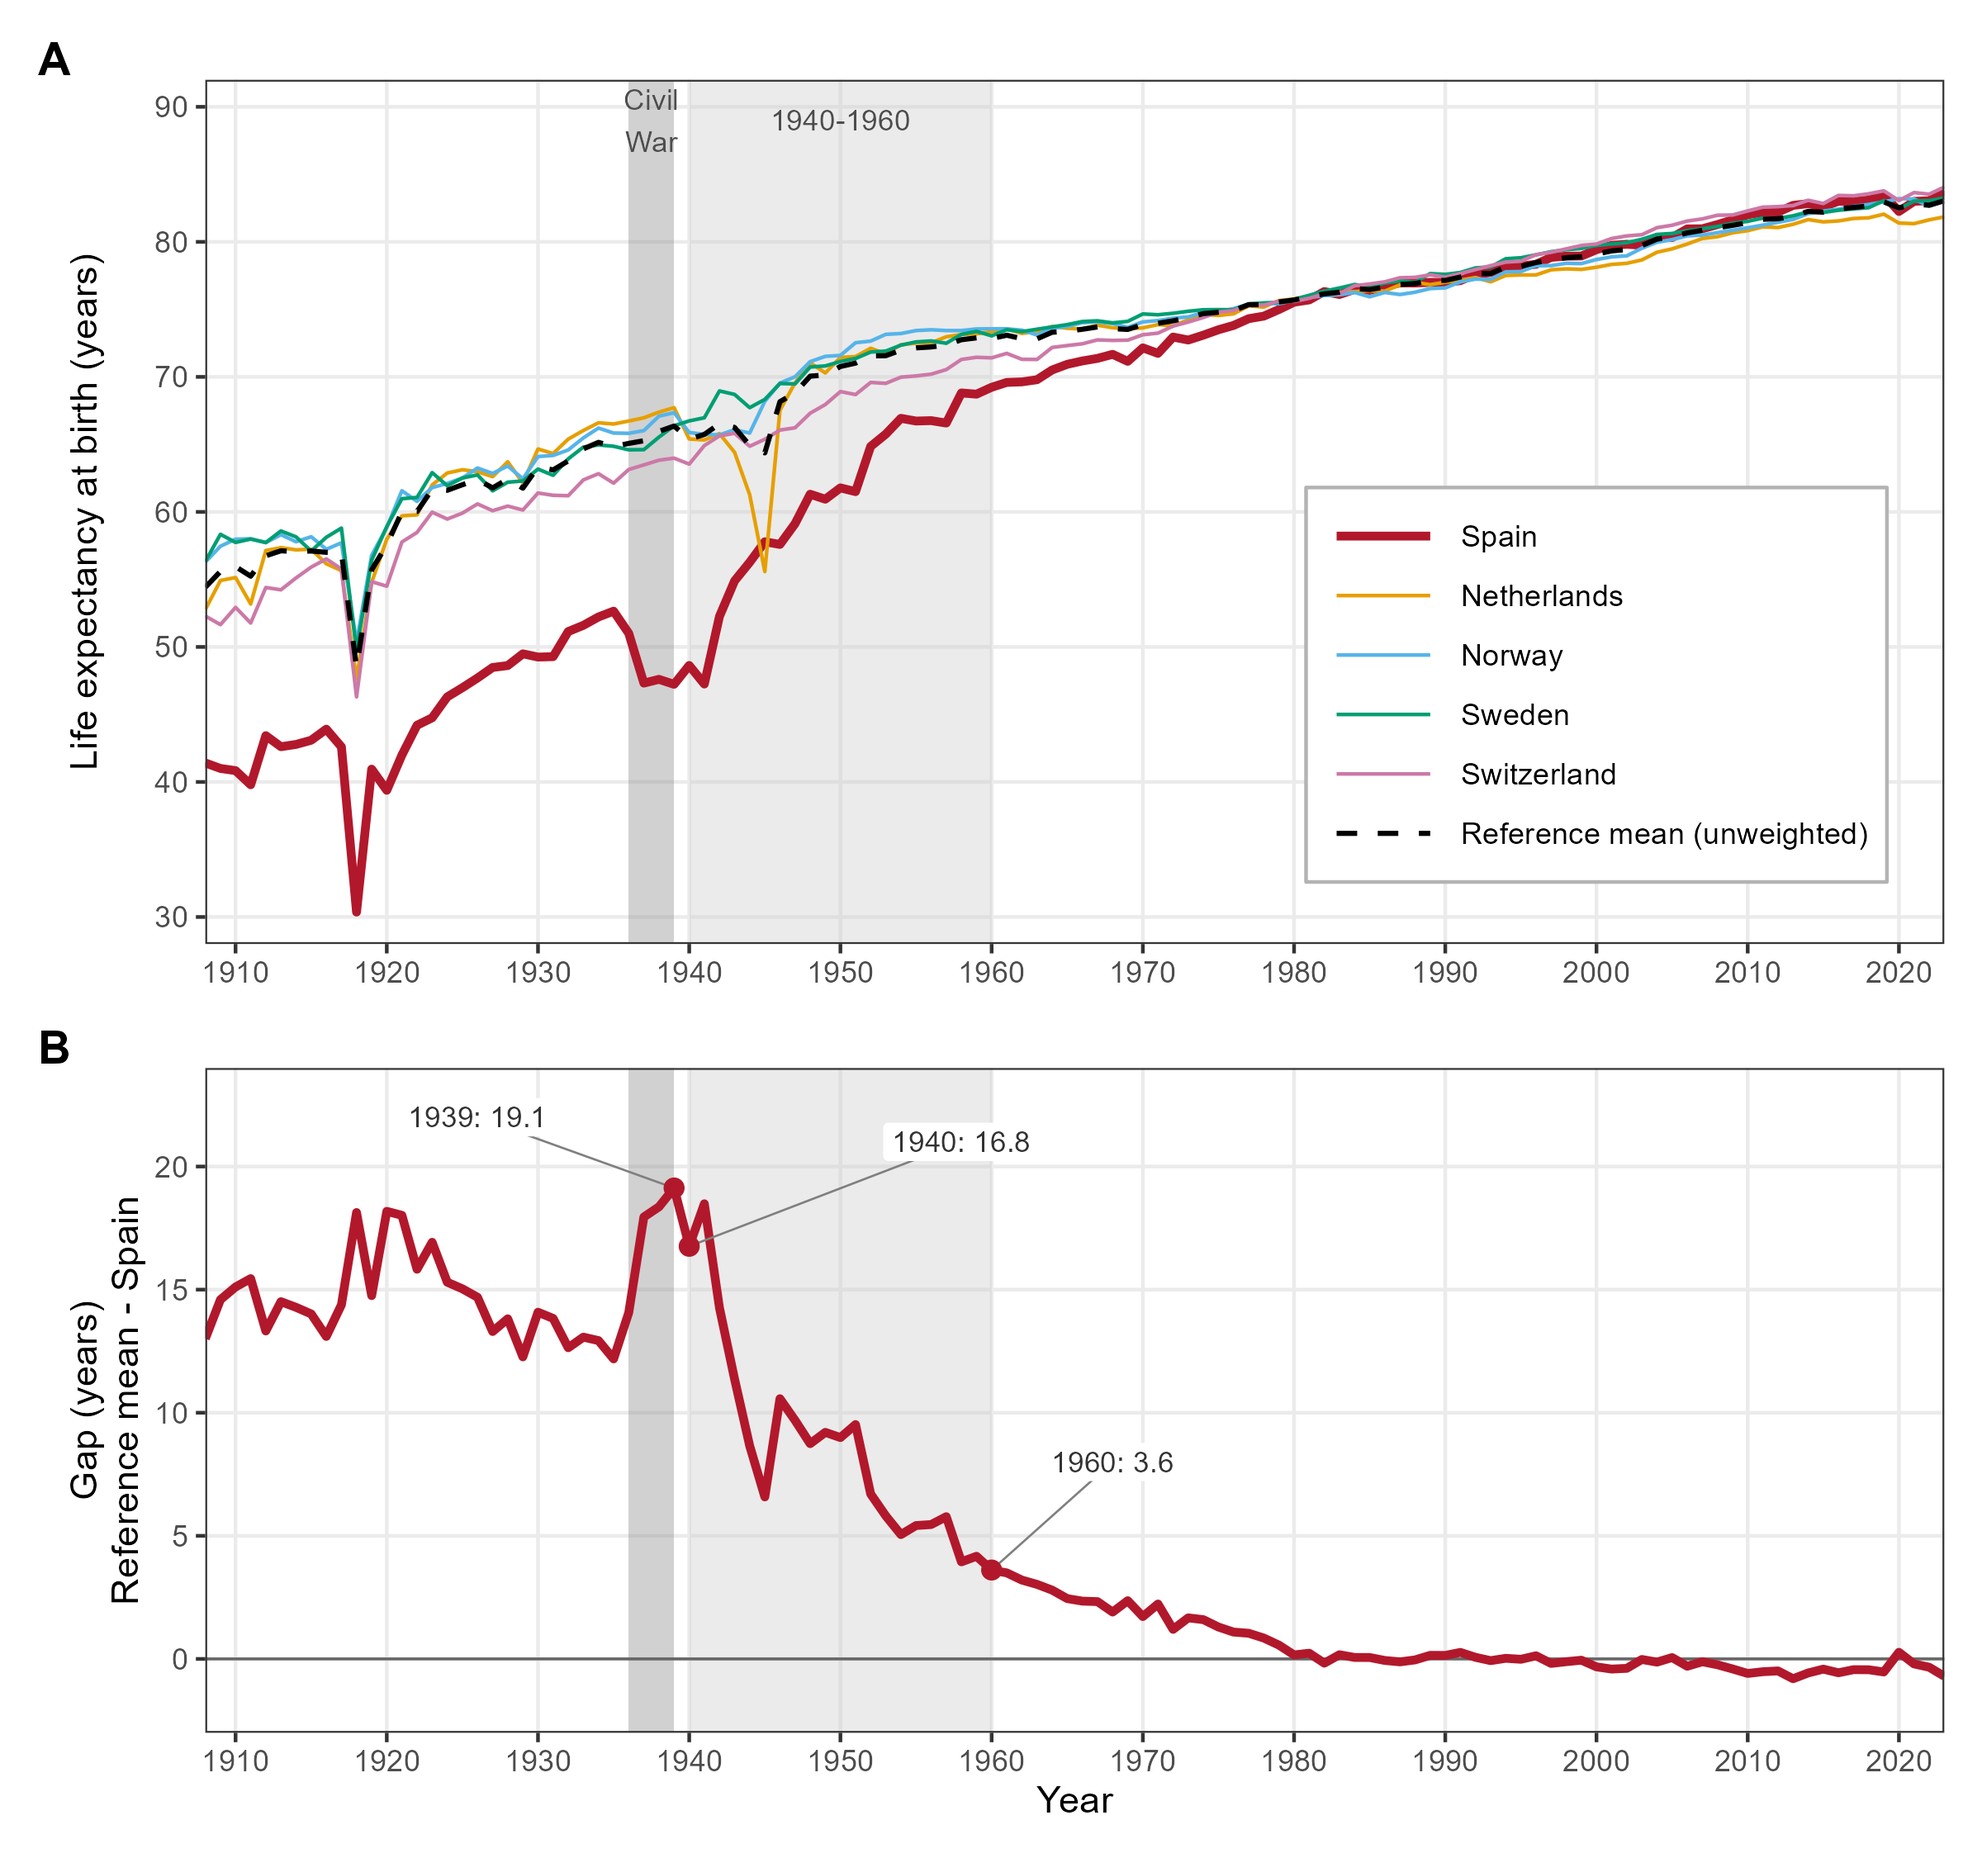
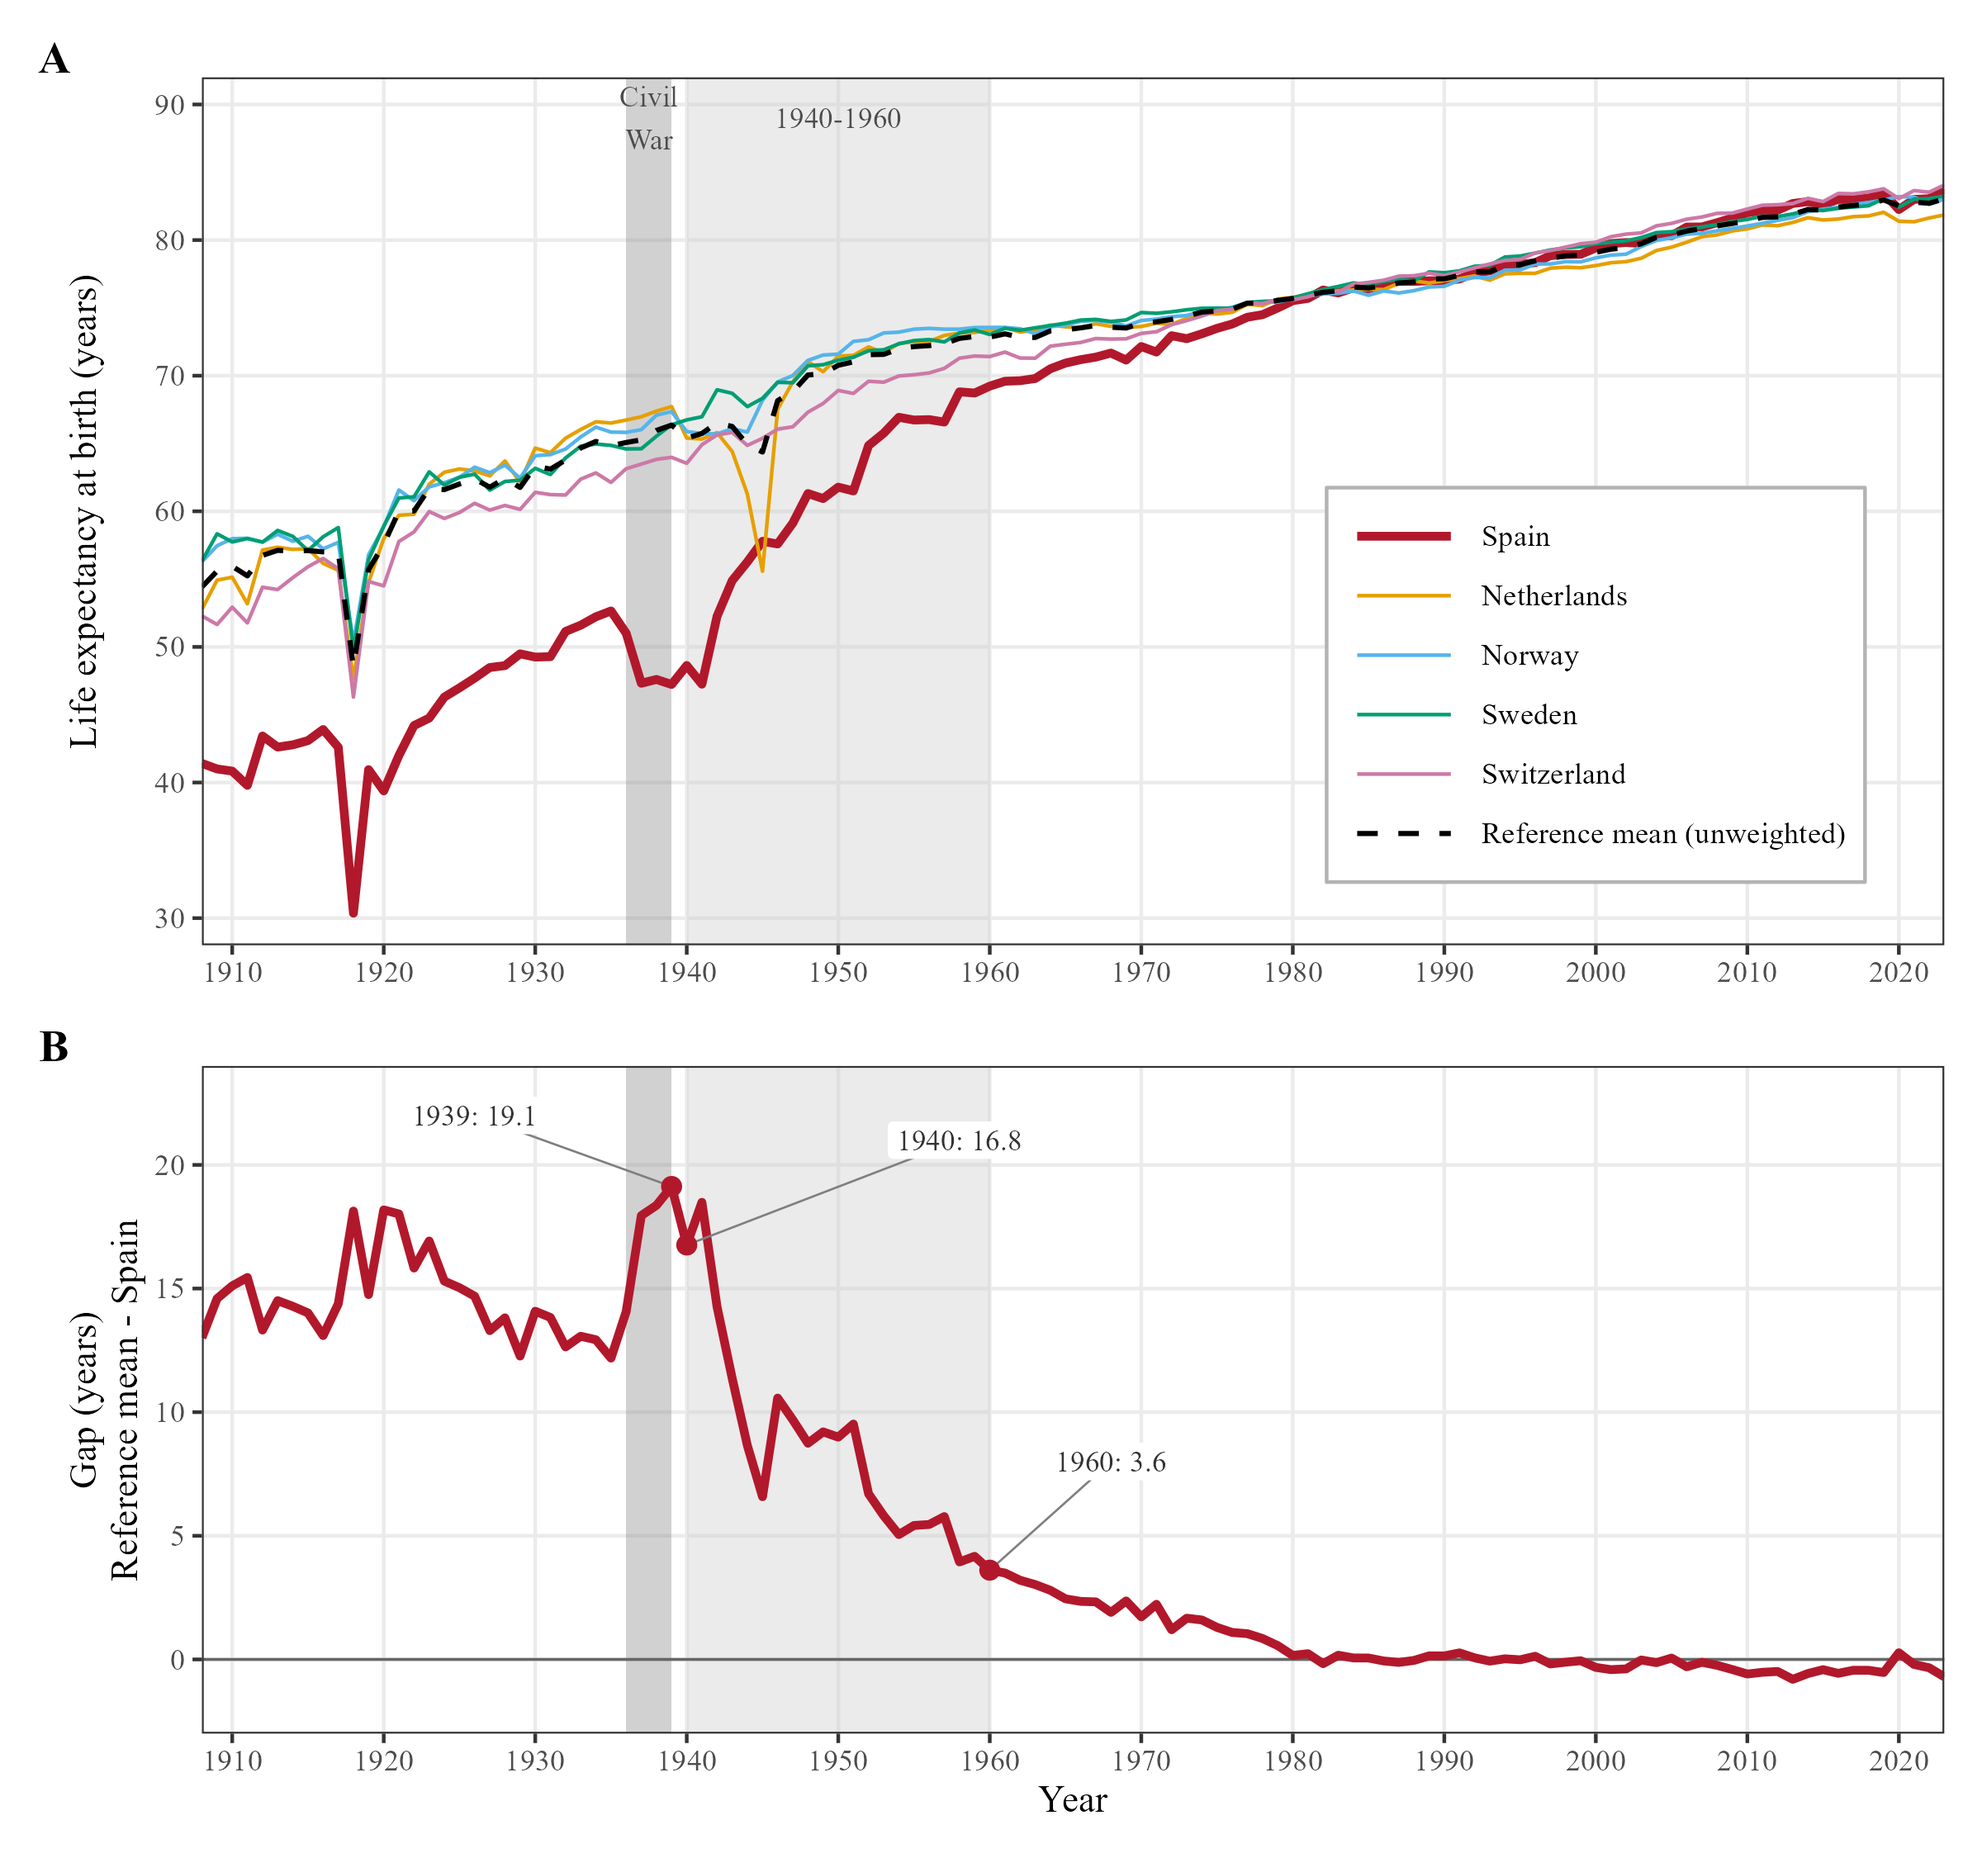
Use a serif typeface in all figures
The submitted manuscript and supplement use a Times-like serif face. The
family is set once in 00_functions.R ("serif", mapped to Times New Roman by
ragg): theme_set() plus theme_bw() and theme_minimal() redefined with that
base_family, since each script adds a complete theme that would otherwise
reset it; text geoms inherit the family from the theme (ggplot2 >= 4.0).
Scripts 03, 04, 06 and 13 now source 00_functions.R so that every figure
picks it up. All figures re-exported; derived data unchanged.

diff --git a/README.md b/README.md
@@ -47,7 +47,7 @@ scripts in `code/` in order:
 
 | script | manuscript output |
 |---|---|
-| `00_functions.R` | Arriaga decomposition and cohort-contribution functions (sourced by `07`, `08`, `09`, `12`, `14`), APC fitting and extrema functions (`05`, `14`) and the exceptionality criterion (`11`, `14`) |
+| `00_functions.R` | Arriaga decomposition and cohort-contribution functions (sourced by `07`, `08`, `09`, `12`, `14`), APC fitting and extrema functions (`05`, `14`), the exceptionality criterion (`11`, `14`) and the figure typeface (serif, `theme_bw()` and `theme_minimal()` redefined with `base_family = "serif"`; sourced by every figure script) |
 | `01_hmd_life_tables.R` | downloads e0 and life tables (inputs of Figures 1, 5, S1.1, S7.1 and S8.2 and Tables S1.1, S4 and S7.1) |
 | `02_hmd_deaths_exposures.R` | downloads deaths and exposures (inputs of Figures 3, 4, S2 and S8.1) |
 | `03_fig1_life_expectancy_gap.R` | **Figure 1**: life expectancy 1908-2023 (A) and the gap between Spain and the reference mean (B) |
@@ -88,7 +88,8 @@ is its R port.
 
 ## Requirements
 
-R (>= 4.3) with: `tidyverse`, `HMDHFDplus`, `Epi`, `MASS`, `splines`,
+R (>= 4.3) with: `tidyverse` (`ggplot2` >= 4.0, so that text geoms inherit the
+theme typeface), `HMDHFDplus`, `Epi`, `MASS`, `splines`,
 `MortalitySmooth` (`remotes::install_github("timriffe/MortalitySmooth")`),
 `patchwork`. Exploratory scripts also use `cowplot`, `mgcv`, `scales`, `viridis`.
 
